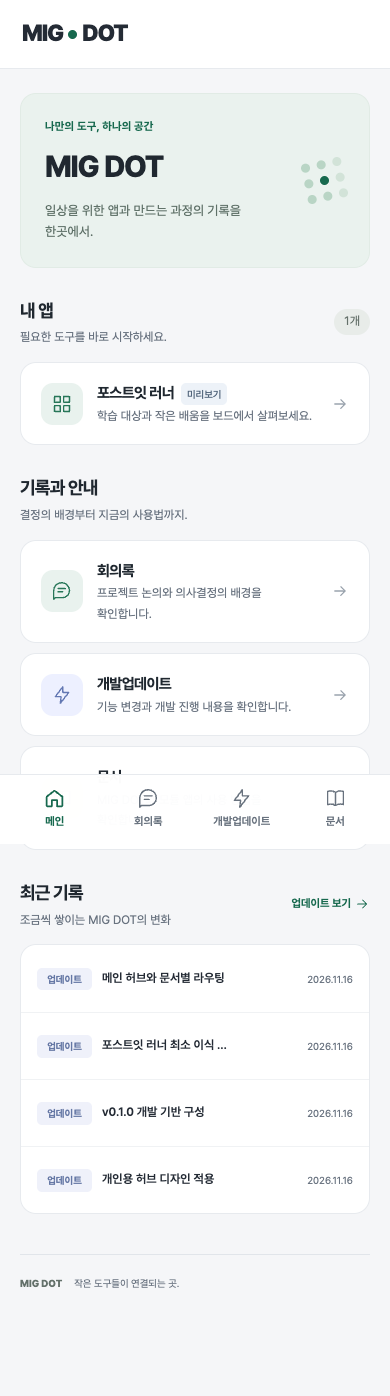
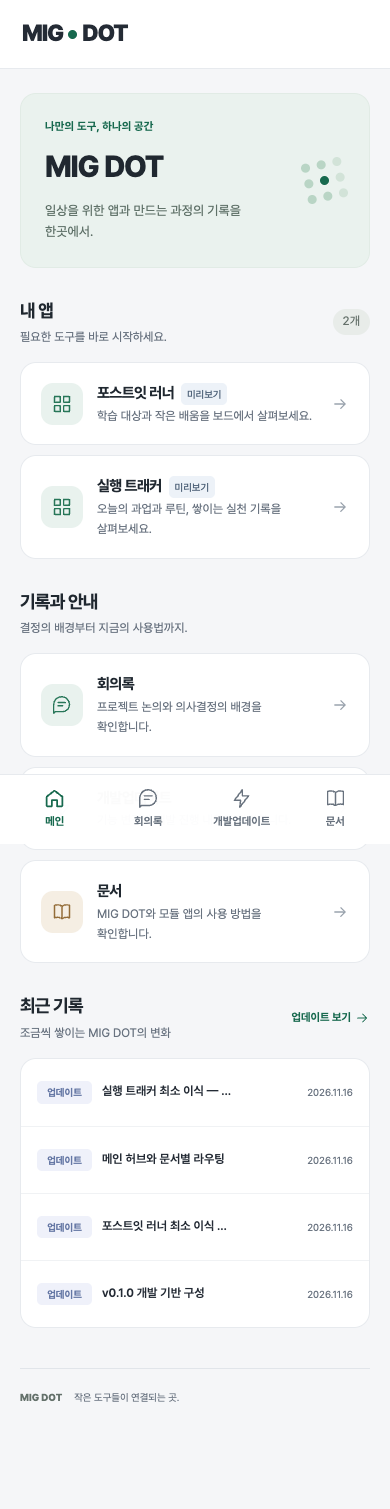
ADD 기존프로젝트(execution-tracker) 개발원칙서 기준 이식

diff --git a/src/modules/execution-tracker/TrackerPage.tsx b/src/modules/execution-tracker/TrackerPage.tsx
@@ -1,0 +1,42 @@
+import { Link, NavLink, useParams, useSearchParams } from 'react-router-dom'
+import { Icon } from '../../shared/Icon'
+import { days, records, routines, sampleDay, shiftDay, taskProgress, tasks, validDay, type Task } from './data'
+import styles from './tracker.module.css'
+
+const root = '/execution-tracker'
+function TaskList({ items }: { items: Task[] }) {
+  return items.length ? <ul className={styles.taskList}>{items.map((task, index) => <li key={task.id}><span className={`${styles.taskMark} ${task.done ? styles.complete : ''}`} aria-hidden="true">{task.done ? '✓' : String(index + 1).padStart(2, '0')}</span><div><span className={styles.itemLabel}>{task.done ? '완료' : '미완료'}</span><h3 className={task.done ? styles.doneTitle : ''}>{task.title}</h3></div><span className={`${styles.state} ${task.done ? styles.complete : ''}`}>{task.done ? '완료' : '예정'}</span></li>)}</ul> : <p className={styles.empty}>이 날짜에는 등록한 과업이 없습니다.</p>
+}
+export default function TrackerPage() {
+  const { '*': subpath = '' } = useParams()
+  const [params, setParams] = useSearchParams()
+  const isRecords = subpath === 'records'
+  const dayParam = params.get('date') ?? sampleDay
+  const date = validDay(dayParam) && dayParam >= days[0] && dayParam <= sampleDay ? dayParam : sampleDay
+  const selected = routines.find(item => item.id === params.get('routine')) ?? routines[0]
+  const progress = taskProgress(tasks.filter(task => task.date === sampleDay))
+  const routineCount = routines.filter(routine => records[`${routine.id}:${sampleDay}`]).length
+  const selectedDays = days.filter(day => records[`${selected.id}:${day}`]).length
+  function selectDate(day: string) {
+    if (!validDay(day) || day < days[0] || day > sampleDay) return
+    setParams({ date: day, routine: selected.id })
+  }
+  return <div className={styles.tracker}>
+    <p className={styles.breadcrumb}><Link to="/">메인</Link> / 실행 트래커</p>
+    <div className={styles.heading}><div><p className={styles.eyebrow}>작은 실행을 차곡차곡</p><h1>실행 트래커</h1><p>오늘 끝낼 일과 나를 위한 좋은 습관을 구분해 살펴보세요.</p></div><span className={styles.preview}>미리보기</span></div>
+    <div className={styles.notice}><Icon name="documentations" /><p>예시 기록을 살펴보는 읽기 전용 화면입니다. 기준일은 {sampleDay}이며 실제 오늘의 기록이 아닙니다. 완료 처리·저장·집중 실행은 제공하지 않습니다.</p></div>
+    <nav className={styles.tabs} aria-label="실행 트래커 메뉴"><NavLink to={root} end>오늘</NavLink><NavLink to={`${root}/records`}>기록</NavLink></nav>
+    {subpath !== '' && !isRecords ? <section className={styles.empty}><h2>페이지를 찾을 수 없습니다.</h2><Link to={root}>오늘 화면으로 이동</Link></section> : !isRecords ? <>
+      <section className={styles.summary} aria-labelledby="summary-title"><div className={styles.summaryTop}><div><p className={styles.eyebrow}>오늘의 과업 · 예시 기준일 {sampleDay}</p><h2 id="summary-title">{progress.total ? `${progress.remaining}개의 과업이 남았어요` : '등록한 과업이 없어요'}</h2></div><span className={styles.fraction}>{progress.done}<small> / {progress.total}</small></span></div><div className={styles.progress} role="progressbar" aria-label="필수 과업 완료" aria-valuenow={progress.done} aria-valuemin={0} aria-valuemax={progress.total || 1}><span style={{ width: `${progress.percent}%` }} /></div><p>진행률은 필수 과업만으로 계산합니다. 선택 루틴의 실천 여부는 포함하지 않습니다.</p></section>
+      <div className={styles.todayGrid}><section className={styles.panel} aria-labelledby="task-title"><div className={styles.sectionTitle}><div><h2 id="task-title">필수 과업</h2><p>예시 기준일에 끝내기로 한 일</p></div><span>{progress.total}개</span></div><TaskList items={tasks.filter(task => task.date === sampleDay)} /><p className={styles.panelFoot}>타이머 종료와 과업 완료는 별개로 다룹니다.</p></section>
+      <section className={styles.panel} aria-labelledby="routine-title"><div className={styles.sectionTitle}><div><h2 id="routine-title">선택 루틴</h2><p>해야만 하는 일보다, 나를 위한 좋은 실천</p></div><span>{routineCount} / {routines.length} 실천</span></div><ul className={styles.routineList}>{routines.map(routine => <li key={routine.id}><span className={`${styles.routineMark} ${records[`${routine.id}:${sampleDay}`] ? styles.practiced : ''}`} aria-hidden="true">{records[`${routine.id}:${sampleDay}`] ? '✓' : '·'}</span><div><h3>{routine.title}</h3><p>{routine.detail}</p></div><span className={styles.routineState}>{records[`${routine.id}:${sampleDay}`] ? '실천함' : '기록 없음'}</span></li>)}</ul><Link className={styles.panelLink} to={`${root}/records`}>루틴 기록 살펴보기 <Icon name="arrow" /></Link></section></div>
+    </> : <>
+      <div className={styles.recordHeading}><div><h2>꾸준함의 기록</h2><p>최근 28일의 루틴 실천과 날짜별 과업을 확인하세요.</p></div><span className={styles.period}>{days[0]} ~ {sampleDay}</span></div>
+      <section className={styles.panel}><div className={styles.dateBrowser}><button aria-label="이전 날짜" disabled={date <= days[0]} onClick={() => selectDate(shiftDay(date, -1))}>←</button><label>조회 날짜<input type="date" aria-label="조회 날짜" min={days[0]} max={sampleDay} value={date} onChange={event => selectDate(event.target.value)} /></label><button aria-label="다음 날짜" disabled={date >= sampleDay} onClick={() => selectDate(shiftDay(date, 1))}>→</button><button onClick={() => selectDate(sampleDay)}>기준일</button></div>
+      <div className={styles.routineTabs} role="group" aria-label="루틴 선택">{routines.map(routine => <button key={routine.id} aria-pressed={routine.id === selected.id} onClick={() => setParams({ date, routine: routine.id })}>{routine.title}</button>)}</div>
+      <div className={styles.heatmapHeading}><h3>{selected.title}</h3><span>28일 중 {selectedDays}일 실천</span></div><div className={styles.heatmap} aria-label="최근 28일 실천 기록">{days.map(day => <button key={day} disabled={day < selected.createdOn} aria-label={`${day} ${day < selected.createdOn ? '생성 전' : records[`${selected.id}:${day}`] ? '실천함' : '기록 없음'}`} aria-pressed={date === day} className={records[`${selected.id}:${day}`] ? styles.filled : ''} onClick={() => selectDate(day)}>{Number(day.slice(-2))}</button>)}</div><div className={styles.legend}><span><i />기록 없음</span><span><i className={styles.filled} />실천함</span><span>흐린 날짜는 생성 전입니다.</span></div><p className={styles.selectedState} role="status">{date} · {date < selected.createdOn ? '생성 전' : records[`${selected.id}:${date}`] ? '실천함' : '기록 없음'}</p></section>
+      <section className={`${styles.panel} ${styles.history}`}><div className={styles.sectionTitle}><div><h2>{date} 과업</h2><p>등록된 예시 기록만 표시합니다.</p></div></div><TaskList items={tasks.filter(task => task.date === date)} /></section><p className={styles.footnote}>실천하지 않은 날짜는 실패로 표시하지 않습니다. 기록 조회는 완료 상태를 변경하지 않습니다.</p>
+    </>}
+    <div className={styles.bottom}><Link to="/">← MIG DOT 메인</Link><Link to={`/documentations?${new URLSearchParams({ doc: '/docs/documentations/execution-tracker/overview.md' })}`}>사용 안내 →</Link></div>
+  </div>
+}

diff --git a/src/modules/execution-tracker/tracker.module.css b/src/modules/execution-tracker/tracker.module.css
@@ -1,0 +1,4 @@
+.tracker{color:#242b35}.breadcrumb{font-size:12px;color:#697380;margin-bottom:22px}.breadcrumb a:hover,.bottom a:hover{text-decoration:underline}.heading{display:flex;justify-content:space-between;align-items:center;gap:16px}.eyebrow{font-size:12px;color:#17694e;font-weight:600}.heading h1{font-size:30px;font-weight:750;margin:5px 0 8px}.heading>div>p:last-child{font-size:14px;color:#697380;word-break:keep-all}.preview{font-size:12px;background:#e8f1eb;color:#17694e;padding:5px 10px;border-radius:20px;white-space:nowrap}.notice{display:flex;align-items:flex-start;gap:10px;padding:16px 18px;background:#edf2f8;border:1px solid #dce5ee;border-radius:12px;color:#52657b;font-size:13px;margin:24px 0}.notice svg{width:17px;height:17px;margin-top:3px}.tabs{display:flex;gap:24px;border-bottom:1px solid #dfe5e8;margin-bottom:24px}.tabs a{color:#697380;font-size:14px;padding:10px 4px 12px;border-bottom:2px solid transparent}.tabs a[aria-current=page]{color:#17694e;border-color:#17694e;font-weight:700}.summary{background:#edf5ef;border:1px solid #dbe8df;border-radius:16px;padding:26px 28px;margin-bottom:24px}.summaryTop{display:flex;justify-content:space-between;align-items:center;gap:16px}.summary h2{font-size:23px;margin-top:6px}.fraction{font-size:32px;font-weight:750;color:#17694e;white-space:nowrap}.fraction small{font-size:18px;font-weight:400;color:#6c8475}.progress{height:8px;background:#d8e6dc;border-radius:10px;overflow:hidden;margin:20px 0 12px}.progress>span{display:block;height:100%;background:#277b59;border-radius:10px}.summary>p{color:#5b7364;font-size:12px}.todayGrid{display:grid;grid-template-columns:1.1fr 1fr;gap:20px;align-items:start}.panel{background:white;border:1px solid #e3e8ec;border-radius:16px;overflow:hidden}.sectionTitle{display:flex;align-items:center;justify-content:space-between;padding:22px 24px;gap:12px}.sectionTitle h2{font-size:18px}.sectionTitle p{font-size:12px;color:#697380;margin-top:5px}.sectionTitle>span{font-size:12px;color:#697380;white-space:nowrap}.taskList,.routineList{list-style:none;margin:0;padding:0}.taskList li,.routineList li{display:flex;align-items:center;gap:14px;padding:20px 24px;border-top:1px solid #eff1f4}.taskList li>div,.routineList li>div{min-width:0;flex:1}.taskList h3,.routineList h3{font-size:15px;font-weight:600;overflow-wrap:anywhere}.taskMark{display:grid;place-items:center;width:36px;height:36px;border-radius:10px;background:#f2f4f7;color:#8a95a2;font-size:12px;flex-shrink:0}.itemLabel{font-size:10px;color:#697380;display:block;margin-bottom:3px}.state{background:#f1f3f6;color:#687586;font-size:10px;border-radius:5px;padding:4px 7px;white-space:nowrap}.complete{background:#eaf3ec;color:#17694e}.doneTitle{color:#6f7a74}.panelFoot{padding:16px 24px;background:#fafbfc;border-top:1px solid #eff1f4;color:#697380;font-size:11px}.routineMark{display:grid;place-items:center;width:34px;height:34px;border:1px solid #dfe6e2;color:#8a9c90;border-radius:50%;flex-shrink:0}.practiced{background:#eaf3ec;border-color:#d1e6d9;color:#17694e}.routineList p{font-size:11px;color:#697380;margin-top:4px}.routineState{font-size:11px;color:#697380;white-space:nowrap}.panelLink{display:flex;align-items:center;justify-content:space-between;padding:16px 24px;border-top:1px solid #eff1f4;color:#17694e;font-size:12px;font-weight:600}.panelLink svg{width:16px;height:16px}.bottom{display:flex;justify-content:space-between;gap:16px;border-top:1px solid #dfe5e8;margin-top:32px;padding-top:22px;font-size:13px;color:#17694e}.recordHeading{display:flex;justify-content:space-between;align-items:center;gap:16px;margin:4px 0 20px}.recordHeading h2{font-size:21px}.recordHeading p{font-size:13px;color:#697380;margin-top:6px}.period{font-size:12px;color:#697380;white-space:nowrap}.dateBrowser{display:flex;gap:10px;align-items:flex-end;padding:24px;border-bottom:1px solid #eff1f4}.dateBrowser label{display:flex;flex-direction:column;gap:5px;font-size:11px;color:#697380}.dateBrowser input{padding:9px 12px;border:1px solid #dfe5e8;border-radius:8px;background:white;font-size:14px;color:#242b35;height:44px;min-width:0}.dateBrowser button{border:1px solid #dfe5e8;background:#f7f9f8;color:#17694e;border-radius:8px;min-width:44px;min-height:44px;padding:8px 12px;font-size:13px}.dateBrowser button:disabled{color:#a7afb7;cursor:default}.routineTabs{display:flex;gap:8px;flex-wrap:wrap;padding:22px 24px 12px}.routineTabs button{border:1px solid #e3e8ec;background:#f8f9fb;color:#697380;border-radius:8px;padding:11px 14px;font-size:12px;min-height:44px}.routineTabs button[aria-pressed=true]{border-color:#bfd8c9;background:#eaf3ed;color:#17694e;font-weight:600}.heatmapHeading{display:flex;align-items:center;justify-content:space-between;gap:12px;margin:16px 24px}.heatmapHeading h3{font-size:17px}.heatmapHeading>span{font-size:12px;color:#697380;white-space:nowrap}.heatmap{display:grid;grid-template-columns:repeat(14,minmax(0,1fr));gap:8px;padding:0 24px}.heatmap button{display:grid;place-items:center;min-width:0;min-height:44px;background:#f1f4f2;border:1px solid #e4eae6;color:#607366;border-radius:8px;font-size:12px}.heatmap button.filled,.legend i.filled{background:#2a7a56;color:white;border-color:#2a7a56}.heatmap button:disabled{opacity:.35;cursor:default}.heatmap button[aria-pressed=true]{outline:2px solid #17694e;outline-offset:2px}.legend{display:flex;gap:16px;flex-wrap:wrap;align-items:center;padding:20px 24px;font-size:11px;color:#697380}.legend span{display:flex;align-items:center;gap:6px}.legend i{width:10px;height:10px;border-radius:3px;background:#f1f4f2;border:1px solid #e4eae6}.selectedState{padding:16px 24px;background:#f7faf8;color:#17694e;font-size:13px;border-top:1px solid #edf1ee}.history{margin-top:20px}.empty{padding:36px 24px;text-align:center;font-size:13px;color:#697380}.empty a{display:inline-block;color:#17694e;margin-top:12px}.footnote{color:#697380;font-size:12px;margin-top:16px}.tracker button:focus-visible,.tracker a:focus-visible,.tracker input:focus-visible{outline:3px solid #17694e;outline-offset:4px}
+@media(max-width:900px){.todayGrid{grid-template-columns:1fr}.heatmap{grid-template-columns:repeat(7,minmax(0,1fr))}.recordHeading{align-items:flex-start;flex-direction:column}}
+@media(max-width:760px){.heading h1{font-size:27px}.heading>div>p:last-child{font-size:13px}.notice{padding:14px;font-size:12px}.summary{padding:20px}.summary h2{font-size:20px}.fraction{font-size:27px}.fraction small{font-size:15px}.summary>p{font-size:11px}.sectionTitle{padding:20px}.taskList li,.routineList li{padding:18px 20px;gap:10px}.taskList h3,.routineList h3{font-size:14px}.routineState{font-size:10px}.recordHeading h2{font-size:19px}.recordHeading p{font-size:12px}.dateBrowser{padding:18px 16px;gap:7px}.dateBrowser label{flex:1;min-width:0}.dateBrowser input{width:100%;padding:9px 6px;font-size:12px}.dateBrowser button{padding:8px;min-width:40px}.routineTabs{padding:18px 16px 8px;gap:6px}.routineTabs button{font-size:11px;padding:10px}.heatmapHeading{margin:16px}.heatmapHeading h3{font-size:15px}.heatmapHeading>span{font-size:10px}.heatmap{padding:0 16px;gap:6px}.heatmap button{font-size:11px;min-height:38px}.legend{padding:18px 16px;gap:12px;font-size:10px}.selectedState{padding:14px 16px}.period{font-size:11px}}
+@media(max-width:360px){.dateBrowser{flex-wrap:wrap}.dateBrowser label{min-width:130px}.routineList li{gap:8px}.routineState{white-space:normal;max-width:36px}}

diff --git a/tests/tracker.spec.ts b/tests/tracker.spec.ts
@@ -1,0 +1,72 @@
+import { expect, test } from '@playwright/test'
+import { days, sampleDay, shiftDay, taskProgress, validDay } from '../src/modules/execution-tracker/data'
+
+test('실행 미리보기의 과업·루틴 구분과 날짜별 기록 탐색', async ({ page }) => {
+  const errors: string[] = []
+  const dataRequests: string[] = []
+  page.on('pageerror', error => errors.push(error.message))
+  page.on('request', request => { if (request.url().includes('supabase.co') || new URL(request.url()).pathname.startsWith('/api/')) dataRequests.push(request.url()) })
+  await page.goto('/')
+  await page.locator('.apps-section').getByRole('link', { name: /실행 트래커/ }).click()
+  await expect(page).toHaveURL('/execution-tracker')
+  const initialStorage = await page.evaluate(async () => JSON.stringify({ local: { ...localStorage }, databases: await indexedDB.databases() }))
+  await expect(page.getByText('예시 기록을 살펴보는 읽기 전용 화면입니다.', { exact: false })).toBeVisible()
+  const progress = page.getByRole('progressbar', { name: '필수 과업 완료' })
+  await expect(progress).toHaveAttribute('aria-valuenow', '1')
+  await expect(progress).toHaveAttribute('aria-valuemax', '3')
+  await expect(page.getByRole('heading', { name: '2개의 과업이 남았어요' })).toBeVisible()
+  await expect(page.getByRole('region', { name: '필수 과업' }).getByRole('listitem')).toHaveCount(3)
+  await expect(page.getByRole('region', { name: '선택 루틴' }).getByRole('listitem')).toHaveCount(3)
+  await page.screenshot({ path: 'docs/previews/tracker-today-desktop.png', fullPage: true })
+  await page.getByRole('navigation', { name: '실행 트래커 메뉴' }).getByRole('link', { name: '기록', exact: true }).click()
+  await expect(page).toHaveURL('/execution-tracker/records')
+  await expect(page.locator('[aria-label="최근 28일 실천 기록"] button')).toHaveCount(28)
+  await expect(page.getByRole('button', { name: `${days[0]} 생성 전`, exact: true })).toBeDisabled()
+  await page.getByRole('button', { name: '건강한 한 끼 기록', exact: true }).click()
+  await expect(page.getByRole('status')).toHaveText(`${sampleDay} · 기록 없음`)
+  await page.getByRole('button', { name: '이전 날짜', exact: true }).click()
+  await expect(page.getByRole('heading', { name: '2026-11-15 과업', exact: true })).toBeVisible()
+  await page.reload()
+  await expect(page.getByRole('button', { name: '건강한 한 끼 기록', exact: true })).toHaveAttribute('aria-pressed', 'true')
+  await expect(page.getByLabel('조회 날짜', { exact: true })).toHaveValue('2026-11-15')
+  await page.screenshot({ path: 'docs/previews/tracker-records-desktop.png', fullPage: true })
+  await page.getByLabel('조회 날짜', { exact: true }).fill('2026-11-01')
+  await expect(page.getByText('이 날짜에는 등록한 과업이 없습니다.', { exact: true })).toBeVisible()
+  await page.getByRole('button', { name: '기준일', exact: true }).click()
+  await expect(page.getByRole('button', { name: '다음 날짜', exact: true })).toBeDisabled()
+  await page.goto('/execution-tracker/records?date=2026-02-30&routine=missing')
+  await expect(page.getByLabel('조회 날짜', { exact: true })).toHaveValue(sampleDay)
+  expect(await page.evaluate(async () => JSON.stringify({ local: { ...localStorage }, databases: await indexedDB.databases() }))).toBe(initialStorage)
+  expect(errors).toEqual([])
+  expect(dataRequests).toEqual([])
+  await page.goto('/execution-tracker/unknown')
+  await expect(page.getByRole('heading', { name: '페이지를 찾을 수 없습니다.' })).toBeVisible()
+  await page.getByRole('link', { name: '← MIG DOT 메인' }).click()
+  await expect(page).toHaveURL('/')
+})
+
+test('실행 미리보기 모바일 레이아웃과 공통 메뉴 유지', async ({ page }) => {
+  for (const width of [320, 390, 768]) {
+    await page.setViewportSize({ width, height: 844 })
+    for (const path of ['/execution-tracker', '/execution-tracker/records']) {
+      await page.goto(path)
+      await expect(page.getByRole('heading', { name: '실행 트래커', exact: true })).toBeVisible()
+      expect(await page.evaluate(() => document.documentElement.scrollWidth <= innerWidth)).toBe(true)
+      if (width === 390) await page.screenshot({ path: `docs/previews/tracker-${path.endsWith('records') ? 'records' : 'today'}-mobile.png`, fullPage: true })
+    }
+  }
+  await page.setViewportSize({ width: 390, height: 844 })
+  await expect(page.getByRole('navigation', { name: '주 메뉴' }).getByRole('link')).toHaveCount(4)
+  await page.getByRole('navigation', { name: '주 메뉴' }).getByRole('link', { name: '메인', exact: true }).click()
+  await page.locator('.apps-section').getByRole('link', { name: /포스트잇 러너/ }).click()
+  await expect(page.getByRole('heading', { name: '포스트잇 러너', exact: true })).toBeVisible()
+})
+
+test('날짜 경계와 필수 과업 진행률', () => {
+  expect(shiftDay('2026-01-01', -1)).toBe('2025-12-31')
+  expect(shiftDay('2024-02-28', 1)).toBe('2024-02-29')
+  expect(validDay('2026-02-30')).toBe(false)
+  expect(validDay('not-a-date')).toBe(false)
+  expect(taskProgress([])).toEqual({ done: 0, total: 0, remaining: 0, percent: 0 })
+  expect(taskProgress([{ id: 'a', date: sampleDay, title: '예시', done: true }])).toEqual({ done: 1, total: 1, remaining: 0, percent: 100 })
+})

diff --git a/src/modules/execution-tracker/data.ts b/src/modules/execution-tracker/data.ts
@@ -1,0 +1,32 @@
+// Date arithmetic adapted from execution-tracker d2c9035 + reviewed working tree,
+// src/storage.js. Preview fixtures below are synthetic and contain no user data.
+export function shiftDay(day: string, offset: number) {
+  const date = new Date(`${day}T12:00:00Z`)
+  date.setUTCDate(date.getUTCDate() + offset)
+  return date.toISOString().slice(0, 10)
+}
+export const sampleDay = '2026-11-16'
+export const days = Array.from({ length: 28 }, (_, index) => shiftDay(sampleDay, index - 27))
+export const routines = [
+  { id: 'exercise', title: '몸을 깨우는 30분', detail: '운동 · 하루 한 번', createdOn: shiftDay(sampleDay, -20) },
+  { id: 'meal', title: '건강한 한 끼 기록', detail: '식습관 · 하루 한 번', createdOn: shiftDay(sampleDay, -15) },
+  { id: 'journal', title: '하루를 돌아보는 기록', detail: '회고 · 하루 한 번', createdOn: shiftDay(sampleDay, -10) },
+]
+export type Task = { id: string; title: string; date: string; done: boolean }
+export const tasks: Task[] = [
+  { id: 'plan', title: '이번 주 기획안 완성하기', date: sampleDay, done: false },
+  { id: 'read', title: '읽고 싶었던 책 20쪽 읽기', date: sampleDay, done: true },
+  { id: 'review', title: '프로젝트 변경 사항 검토하기', date: sampleDay, done: false },
+  { id: 'past-plan', title: '이번 주 일정 정리하기', date: shiftDay(sampleDay, -1), done: true },
+  { id: 'past-notes', title: '학습 메모 정리하기', date: shiftDay(sampleDay, -1), done: false },
+]
+export const records = Object.fromEntries(routines.flatMap((routine, index) => days
+  .filter((day, dayIndex) => day >= routine.createdOn && (day === sampleDay ? index !== 1 : (dayIndex + index) % 4 !== 0))
+  .map(day => [`${routine.id}:${day}`, true])))
+export function taskProgress(items: Task[]) {
+  const done = items.filter(item => item.done).length
+  return { done, total: items.length, remaining: items.length - done, percent: items.length ? done / items.length * 100 : 0 }
+}
+export function validDay(value: string) {
+  return /^\d{4}-\d{2}-\d{2}$/.test(value) && !Number.isNaN(Date.parse(value)) && new Date(value).toISOString().slice(0, 10) === value
+}

diff --git a/src/shell/modules.ts b/src/shell/modules.ts
@@ -7,4 +7,5 @@ export const modules: Module[] = [
   { kind: 'records', id: 'updates', title: '개발업데이트', description: '기능 변경과 개발 진행 내용을 확인합니다.', path: '/updates', component: ReportsPage },
   { kind: 'records', id: 'documentations', title: '문서', description: 'MIG DOT와 모듈 앱의 사용 방법을 확인합니다.', path: '/documentations', component: ReportsPage },
   { kind: 'app', id: 'post-it-learner', title: '포스트잇 러너', description: '학습 대상과 작은 배움을 보드에서 살펴보세요.', path: '/post-it-learner', component: lazy(() => import('../modules/post-it-learner/LearnerPage')) },
+  { kind: 'app', id: 'execution-tracker', title: '실행 트래커', description: '오늘의 과업과 루틴, 쌓이는 실천 기록을 살펴보세요.', path: '/execution-tracker', component: lazy(() => import('../modules/execution-tracker/TrackerPage')) },
 ]

diff --git a/tests/hub.spec.ts b/tests/hub.spec.ts
@@ -14,7 +14,7 @@ test('허브와 문서 페이지의 이동·검색·새로고침', async ({ page
   page.on('response', response => { if (response.status() >= 400) console.log('HTTP error:', response.status(), response.url()) })
   await page.goto('/')
   await expect(page.getByRole('heading', { name: 'MIG DOT', exact: true })).toBeVisible()
-  await expect(page.locator('main a.card')).toHaveCount(4)
+  await expect(page.locator('main a.card')).toHaveCount(5)
   await expect(page.locator('.apps-section').getByRole('link', { name: /포스트잇 러너/ })).toBeVisible()
   await expect(page.locator('.recent-list a')).toHaveCount(4)
   await page.screenshot({ path: 'docs/previews/hub-desktop.png', fullPage: true })

diff --git a/docs/meetings/2026-11-16-execution-tracker-review.md b/docs/meetings/2026-11-16-execution-tracker-review.md
@@ -1,0 +1,106 @@
+# 2026-11-16 실행 트래커 기능·디자인·서비스 차용 검토
+
+- 일시: 2026-11-16 (Asia/Seoul)
+- 요청: execution-tracker의 사용자 관점 기능, 디자인, 서비스 기능과 차용 가능 범위 분석
+- 원본: /Users/migdracios/overmind/apps/execution-tracker
+- 기준: HEAD d2c9035 및 조사 시 현재 작업 트리. PWA·인증·UI 등에 수정/미추적 파일이 있으므로 HEAD만의 분석이 아님
+- 상태: AI 검토·제안 · 모듈 이식 및 서비스 정책 미확정
+- 수행: 코드·문서·기존 스크린샷 읽기. 원본 변경·복사·빌드·DB 접속·실제 인증·새 브라우저 테스트 없음. MIG DOT에는 이 기록만 추가
+
+## 1. 사용자가 얻는 가치
+
+오늘 끝낼 과업과 할수록 좋은 루틴을 구분해, 할 일을 바로 등록하고 집중 후 명시적으로 완료하며 지난 실행을 돌아보는 개인용 실행 관리 앱이다. 게임 테마보다 ‘오늘 무엇을 끝내야 하는가, 지금 무엇에 집중하는가, 어떤 실천이 쌓였는가’가 서비스의 중심이다.
+
+## 2. 현재 코드에서 확인한 기능
+
+| 사용자 과제 | 구현된 동작 | 차용 판단 |
+|---|---|---|
+| 오늘 할 일 파악 | 서울 날짜 기준 과업, 완료/전체 진행률, 미완료 수 | 높음. 요약과 실행 목록의 위계 유지 |
+| 선택적 실천 구분 | 루틴 수행은 기록하되 과업 완료 조건과 분리 | 높음. 강제 할 일과 좋은 습관의 구분이 명확함 |
+| 빠르게 등록 | 제목만 입력, 추가 또는 추가하고 집중 | 높음. 낮은 입력 부담과 다음 행동 연결 |
+| 완료·실천 처리 | 바로 완료/취소, 되돌리기 | 높음. 저장 성공/실패와 되돌리기 충돌 처리는 새 저장 구조에 맞춤 |
+| 집중 유지 | 25분 타이머, 일시정지·재개·초기화, 진행 중 집중 이어보기 | 높음. 종료 시각 기반 계산과 완료의 분리 유지 |
+| 실제 과업 완료 | 타이머 종료와 별개로 사용자가 완료 확정 | 높음. 시간 경과를 성과로 오인하지 않음 |
+| 과거 돌아보기 | 날짜별 과업, 선택 루틴의 최근 28일 수행 셀 및 실천 일수 | 높음. 루틴·기록 메뉴의 정보 구조 개선 필요 |
+| 미완료 처리 | 이전 날짜의 미완료 과업을 확인하고 오늘로 이동 | 중간. 이동 전 날짜/이동 이력을 보존할지 미정 |
+| 데이터 상태 이해 | 기기 저장·전송 대기·서버 성공·충돌·실패 구분과 재시도 | 원칙 차용 높음. 실제 화면은 통합 클라우드 상태에 맞춰 단순화 |
+| 계정·동기화 | Google OAuth, 자체 세션·API·SQLite, 계정별 IndexedDB, 충돌 선택과 내보내기 | 서비스 목표만 차용. 구현은 공통 Supabase로 대체 |
+| 설치·오프라인 | 설치 안내, 정적 캐시, 업데이트 대기·적용 보호 | 플랫폼 차원 참고. 모듈 단독 PWA로 가져오지 않음 |
+
+‘귀환’은 실제 앱 사용·종료를 막는 장치가 아니라 과업 완료를 표현하는 게임 상태다. 등록 과업이 있어야 하며 전부 완료하면 귀환 가능하다. 루틴은 이 조건에 포함하지 않는다.
+
+## 3. 기획과 실제 구현의 구별
+
+초기 기획서는 후속 목표도 담고 있으므로 그대로 현재 기능 목록으로 쓰지 않는다.
+
+- 현재 타이머는 고정 25분이다. 자동 휴식 5분, 사용자 지정 시간, 여러 뽀모도로 사이클은 구현된 것으로 확인되지 않았다.
+- 저장하는 session은 현재 세션 하나다. 과업별 여러 집중 세션 이력이나 일별 누적 집중 시간 분석은 현재 모델에서 제공하지 않는다.
+- 루틴 추가·당일 체크·조회는 있으나 이름 수정·보관·요일별 반복은 없다.
+- 과업 등록·완료/취소·지난 과업 이동은 있으나 제목 수정·삭제·세부 메모 편집 화면은 확인되지 않았다.
+- 최근 28일 수행 수는 제공하지만 연속일/달성률 분석 전체가 구현된 것은 아니다.
+- 과거 루틴 체크는 조회용이다. 실천 셀은 날짜 선택 동작이며 과거 수행을 수정하지 않는다.
+- 오늘로 이동은 현재 코드에서 과업의 date 필드를 변경한다. 이전 날짜 미완료 목록에서는 빠지며 원래 예정일과 이동 이력을 따로 보존하지 않는다.
+- Google OAuth 실설정·다른 실제 기기·HTTPS 아이폰 설치는 문서상 후속 검증이다. 스크린샷 및 테스트 파일 존재가 실서비스 검증 완료를 의미하지 않는다.
+
+## 4. 사용자 흐름과 개선 후보
+
+권장 흐름은 오늘 → 빠른 추가 → 바로 완료 또는 집중 → 기록 확인이다. 이 흐름은 유지할 가치가 있다.
+
+현재 ‘루틴 기록’ 화면은 루틴 관리, 잔디와 날짜별 과업 이력까지 담아 목적이 혼합된다. 통합본에서는 오늘, 루틴, 집중, 기록의 역할을 명확히 나누는 것을 제안하되 메뉴 개수와 배치는 시안에서 결정한다.
+
+진행 중 다른 과업의 집중 버튼은 현재 집중으로 안내한다. 집중 대상이 바뀌지 않는다는 점을 사용자가 쉽게 이해하도록 버튼과 상태를 표시해야 한다. 상태 기반 탭은 URL 기반으로 바꾸어 새로고침·뒤로가기·직접 진입을 지원한다.
+
+## 5. 디자인 분석
+
+기존 docs/previews의 오늘·집중·기록 모바일 이미지를 확인했다. 이는 저장된 예시 스크린샷이며 현재 작업 트리의 새 실행 화면을 확인한 것은 아니다.
+
+### 활용할 원리
+
+- 필수 과업을 위에, 선택 루틴을 아래에 두는 정보 위계
+- 완료/전체 수와 진행 막대를 함께 보여주는 상태 표현
+- 한 목록 패널의 구분선으로 과업을 정리하는 방식
+- 입력 부담이 적은 추가 다이얼로그
+- 집중 화면에서 대상 과업·큰 시간·주요 조작에 집중하는 구성
+- 수행 셀을 실패가 아닌 기록 없음으로 설명하는 비강압적 습관 표현
+- 색 외에 라벨·아이콘·텍스트로 상태를 구분하는 방식
+
+### MIG DOT 기준으로 조정할 부분
+
+MIG DOT의 공통 글자·색상 역할·카드·버튼·접근성이 우선한다. 검정/핏빛/금색, 픽셀 글꼴과 처형인 캐릭터는 선택 가능한 표현 자료이며 유지 의무가 없다. 빨강을 일반 실행 버튼에 반복하면 오류/삭제 의미와 충돌할 수 있으므로 역할을 재배정한다. ‘집행·귀환’ 문구는 ‘과업·완료·오늘의 목표’처럼 이해하기 쉬운 표현을 기본 후보로 둔다.
+
+어두운 테마가 원칙상 무조건 금지되는 것은 아니지만 접근성·일관성과 유지보수의 근거가 있어야 한다. 기존 게임 UI가 전역 body와 공통 컴포넌트를 덮어쓰도록 가져오지 않는다.
+
+현재 원본의 하단 명령 바를 그대로 붙이면 MIG DOT의 모바일 하단 네 메뉴와 중첩된다. 공통 메뉴를 유지하고 모듈 탐색은 본문 상단의 보조 탐색 또는 경로별 화면으로 구성하는 방향을 제안한다. 집중 표시나 추가 버튼도 공통 하단 메뉴와 겹치지 않게 한다.
+
+## 6. 통합 서비스 구조의 차이
+
+현재는 React + Node API + SQLite + 자체 Google OAuth + IndexedDB 저장/전송 대기열을 묶은 구조다. 기존 클라우드가 Supabase라는 가정으로 진행하면 안 된다.
+
+MIG DOT는 단일 Supabase와 공통 인증·인가를 기준으로 하므로 Node 서버, 자체 쿠키/CSRF/OAuth, 전체 문서 저장·충돌 화면과 로컬 우선 저장은 기본 이식 대상에서 제외한다. 다만 소유권 검증, 중복 요청 방지, 저장 확인, 실패 후 재시도, 미전송 데이터 보호에 관한 테스트 관점은 재사용한다. 인증 방식이 달라지므로 기존 보안 장치를 단순 제거하는 것으로 접근 제어가 완성되는 것은 아니다.
+
+제안 데이터 경계는 실행 모듈의 routines, routine_records, tasks, focus_sessions다. 실제 테이블명은 추후 결정한다. 모든 행에 공통 사용자 소유권을 적용하고 루틴+날짜의 수행 기록 유일성, 하위 기록/집중과 부모 항목의 소유자 일치, 기록 단위 동시성 및 활성 집중 하나의 제약을 서버에서 검증한다.
+
+집중 기능은 뷰를 벗어나도 계속되는 기대가 있다. 페이지 컴포넌트의 1초 타이머 자체를 공유하지 않고 종료 시각과 상태를 기반으로 복원한다. 모듈 간 이동 후 작은 집중 상태 표시를 공통 셸에 둘지, 여러 기기에서 집중 세션을 어떻게 이어갈지는 후속 결정이다. 종료 알림/푸시는 별개이며 보장하지 않는다.
+
+## 7. PWA와 오프라인
+
+원본 manifest의 시작 주소와 서비스 워커 범위가 루트 기준이다. 그대로 가져오면 MIG DOT 전체의 정적 캐시·설치 정체성과 충돌할 수 있다. PWA는 플랫폼 전체의 단일 정책으로 검토한다.
+
+클라우드를 단일 원본으로 삼는 것과 제한된 오프라인 캐시는 개념상 양립할 수 있으나, 현재 원본의 로컬 우선·게스트 작성·계정 캐시·자동 전송 대기열은 아직 승인되지 않은 별도 운영 정책이다. 초기 이식에서는 제외하고 필요 시 캐시 접근·계정 전환·암호화/삭제·충돌·실패·실기기 검증까지 포함해 결정한다.
+
+## 8. 차용 수준과 최소 이식 후보
+
+| 범주 | 차용 수준 |
+|---|---|
+| 핵심 제품 개념과 사용 흐름 | 높음 |
+| 날짜/진행률/타이머 계산과 검증 시나리오 | 중간~높음. 저장·React 훅에서 순수 로직 분리 필요 |
+| 화면 컴포넌트 구조 | 부분 활용. TypeScript·라우팅·공통 UI로 재구성 |
+| 기존 게임 스타일 | 제한적 참고 |
+| 인증·SQLite·계정별 로컬 동기화 | 직접 이식 제외 |
+| PWA 코드 | 플랫폼 정책 검토 자료 |
+
+포스트잇 러너와 같은 최소 이식은 예시 데이터의 오늘 목록, 과업/루틴 구분, 진행률, 28일 기록 조회부터 가능하다. 집중은 우선 정적인 화면 미리보기만 넣는 방향을 제안한다. 실제 실행·복원·모듈 이동·다중 기기를 보장하려면 세션 생명주기와 저장 설계를 먼저 정해야 한다. 미리보기에는 저장/로그인/완료 기능을 실제 운영 기능처럼 표시하지 않는다. 이번 요청은 분석이므로 구현하지 않는다.
+
+## 9. 다음 의사결정
+
+최소 이식 범위, 게임 표현 유지 범위, 집중 기능의 플랫폼 연동, 필수 과업/선택 루틴의 최종 용어, 과업 수정·삭제와 루틴 보관의 우선순위, 날짜 이동 이력, 오프라인 필요성을 결정한다. 이번 분석 자체를 해당 정책의 승인으로 취급하지 않는다.

diff --git a/docs/documentations/execution-tracker/overview.md b/docs/documentations/execution-tracker/overview.md
@@ -1,0 +1,28 @@
+# 실행 트래커 — 과업과 루틴 미리보기
+
+## 개요
+
+오늘 끝낼 필수 과업과 할수록 좋은 선택 루틴을 구분하고, 날짜별 예시 기록을 살펴보는 읽기 전용 모듈입니다. 실제 사용자 데이터가 아니며 모든 예시는 2026-11-16을 기준으로 고정되어 있습니다.
+
+## 제공 기능과 사용 방법
+
+1. 메인의 내 앱에서 ‘실행 트래커 · 미리보기’를 선택합니다.
+2. 오늘 화면에서 필수 과업의 완료/전체 수와 남은 수를 확인합니다. 선택 루틴은 과업 진행률에 포함하지 않습니다.
+3. 모듈 상단의 ‘기록’ 또는 ‘루틴 기록 살펴보기’를 선택합니다.
+4. 루틴을 선택해 최근 28일 실천 여부를 확인합니다. 셀의 날짜를 누르거나 날짜 입력·이전/다음 버튼으로 해당 날짜의 과업을 조회합니다.
+5. ‘기준일’ 버튼은 실제 오늘이 아닌 예시 기준일로 돌아갑니다.
+
+미실천은 ‘기록 없음’으로 표시하고 생성 전 날짜는 비활성화합니다. 셀을 선택해도 수행 기록은 변경되지 않습니다. 28일 실천 일수는 조회한 예시 기간의 기록 수이며 전체 일수를 대상으로 한 달성률은 아닙니다.
+
+## 경로와 선택 상태
+
+- `/execution-tracker`: 오늘의 예시 과업과 루틴
+- `/execution-tracker/records`: 최근 28일 수행 기록과 날짜별 과업
+- 기록 페이지의 `date`와 `routine` URL 매개변수로 선택을 유지합니다.
+- 지원 날짜는 예시 기준일을 포함한 28일입니다. 잘못된 날짜·범위 밖 날짜는 기준일로, 알 수 없는 루틴은 첫 루틴으로 표시합니다.
+
+## 데이터와 제한
+
+별도 설정 없이 예시 데이터를 표시합니다. 개인 데이터, localStorage, IndexedDB 및 Supabase를 읽거나 변경하지 않습니다. 저장 기능, 실제 완료·취소·되돌리기, 과업·루틴 작성, 집중 타이머, 로그인, 오프라인 기록, 백업·이관은 제공하지 않습니다. 실제 운영 기능은 공통 인증·인가와 단일 Supabase 기준으로 후속 구현합니다.
+
+기존 앱의 게임 테마와 독립 하단 메뉴 대신 MIG DOT 공통 스타일과 네 개 메뉴를 사용합니다. 모듈 내부 ‘오늘/기록’은 본문 상단에서 이동합니다.

diff --git a/docs/updates/2026-11-16-tracker-minimal-port.md b/docs/updates/2026-11-16-tracker-minimal-port.md
@@ -1,0 +1,19 @@
+# 실행 트래커 최소 이식 — 읽기 전용 미리보기
+
+- 변경일: 2026-11-16 (Asia/Seoul)
+- 앱 버전: v0.1.0 유지 · 커밋 전 작업
+- 대상: 앱 등록, 실행 트래커 모듈, 관련 문서와 브라우저 검증
+
+## 변경 사항
+
+홈에 두 번째 예시 앱을 등록했다. `/execution-tracker`에서 오늘의 필수 과업과 선택 루틴, 과업 기준 진행률을 표시하고 `/execution-tracker/records`에서 28일 루틴 수행과 날짜별 과업을 조회한다. 날짜·루틴 선택은 URL로 유지한다.
+
+원본의 날짜 계산과 정보 구조를 참고해 TypeScript 및 CSS Modules로 구성했다. MIG DOT의 밝은 표면·녹색 강조와 공통 메뉴를 적용했다. 예시 기준일은 2026-11-16으로 고정하고 실제 오늘·개인 기록과 구분했다. 다른 모듈의 스타일이나 저장 동작은 바꾸지 않았다. 추가 패키지는 없다.
+
+## 범위와 제한
+
+원본 앱은 변경하지 않았다. 별도 서버·Google 로그인·SQLite·IndexedDB·서비스 워커와 PWA, 실제 기록 변경·집중 실행은 가져오지 않았다. 고정 예시 데이터를 조회할 수 있으며 운영 가능한 실행 관리 앱의 완성을 뜻하지 않는다.
+
+## 검증
+
+ESLint·타입 검사·프로덕션 빌드가 통과했다. 브라우저 포함 테스트 총 9건이 통과했다. 허브 및 학습 모듈 회귀, 과업/루틴 구분과 진행률, 날짜·루틴 선택 후 새로고침, 잘못된 날짜·빈 과업, 320/390/768px 가로 넘침, 공통 메뉴와 모듈 이동을 검증한다. 브라우저 저장소 불변과 API 요청 없음도 확인했다. 데스크톱 오늘 화면 및 모바일 기록 화면을 스크린샷으로 육안 확인했으며 `docs/previews/tracker-*.png`에 결과를 저장했다.

diff --git a/docs/meetings/2026-11-16-tracker-minimal-port.md b/docs/meetings/2026-11-16-tracker-minimal-port.md
@@ -1,0 +1,20 @@
+# 2026-11-16 실행 트래커 최소 이식 결정
+
+- 일시: 2026-11-16 (Asia/Seoul)
+- 근거: 사용자 ‘제안한 항목까지만 이식’ 요청
+- 범위: 예시 오늘 화면, 과업/루틴 구분, 진행률, 28일 루틴 및 날짜별 과업 조회
+- 상태: 최소 이식 실행 · 실제 운영 기능은 보류
+
+## 배경과 결정
+
+선행 기능·디자인·서비스 검토의 최소 이식안을 구현한다. 사용자 데이터와 기존 서버를 연결하지 않고, 조회 가능한 미리보기로 제공한다. 필수 과업만 진행률에 포함하고 루틴 실천은 별도 표시한다.
+
+날짜 계산과 핵심 정보 구조를 참고하고 MIG DOT 공통 색상·글자·카드 기준으로 화면을 구성한다. 별도 게임 헤더와 하단 메뉴를 가져오지 않고 ‘오늘/기록’을 모듈 상단의 URL 탐색으로 연결한다. 예시 날짜와 데이터임을 명확히 표시한다.
+
+## 보류 및 후속 작업
+
+실제 완료와 되돌리기·작성·수정·삭제·집중 실행·세션 복원·인증·인가·통합 Supabase·데이터 이관·PWA·오프라인 정책은 이번 범위에 포함하지 않는다. 원본의 수정/미추적 파일은 유지하며 소스의 사용자 데이터·환경 변수·DB에는 접근하지 않는다.
+
+## 검증
+
+공통 허브와 학습 모듈 회귀, 실행 화면의 진행률·날짜·루틴 선택·URL 복원, 저장소 불변·API 요청 없음, 모바일 화면을 검증한다. 결과는 개발 업데이트에 기록한다.

diff --git a/src/modules/execution-tracker/REFERENCE.md b/src/modules/execution-tracker/REFERENCE.md
@@ -1,0 +1,10 @@
+# 실행 트래커 최소 이식 출처
+
+- 원본: `/Users/migdracios/overmind/apps/execution-tracker`
+- 기준: HEAD `d2c9035`와 조사한 로컬 작업 트리. 원본에 수정·미추적 파일이 있어 HEAD와 동일하다고 간주하지 않는다.
+- 날짜 계산: 원본 `src/storage.js`의 shiftDay를 TypeScript로 변환
+- 기능 참조: 원본 `src/App.jsx`의 필수 과업/선택 루틴 구분, 과업 기준 진행률, 날짜별 과업 및 28일 수행 기록 조회
+- 루틴 예시 명칭: 원본 기본 예시 3종을 참고. 수행 기록·과업은 합성된 미리보기 데이터이며 실제 저장소를 읽지 않음
+- 화면: MIG DOT 공통 셸 아래 TypeScript와 CSS Modules로 새로 구성
+
+자체 Node API, Google OAuth, SQLite, IndexedDB, 저장 훅, 서비스 워커, PWA manifest, 픽셀 글꼴과 캐릭터는 가져오지 않았다. 완료 처리·생성·수정·삭제·집중 실행·이관은 제공하지 않는다. 공통 인증·단일 Supabase·집중 세션과 오프라인 정책을 결정하기 전의 읽기 전용 미리보기다.

diff --git a/docs/documentations/mig-dot/getting-started.md b/docs/documentations/mig-dot/getting-started.md
@@ -14,7 +14,7 @@ npm run dev
 
 ## 메인 허브와 경로
 
-- `/`: MIG DOT 제목, 개인용 앱 영역, 기록과 안내 바로가기, 최근 기록을 표시합니다. 현재는 포스트잇 러너의 예시 데이터 미리보기를 제공하며 개인 기록은 저장하지 않습니다. 최근 기록을 누르면 해당 문서 본문으로 이동합니다.
+- `/`: MIG DOT 제목, 개인용 앱 영역, 기록과 안내 바로가기, 최근 기록을 표시합니다. 현재는 포스트잇 러너와 실행 트래커의 예시 데이터 미리보기를 제공하며 개인 기록은 저장하지 않습니다. 최근 기록을 누르면 해당 문서 본문으로 이동합니다.
 - `/meetings`: `docs/meetings/`의 회의록 조회
 - `/updates`: `docs/updates/`의 개발업데이트 조회
 - `/documentations`: `docs/documentations/`의 사용 문서 조회
